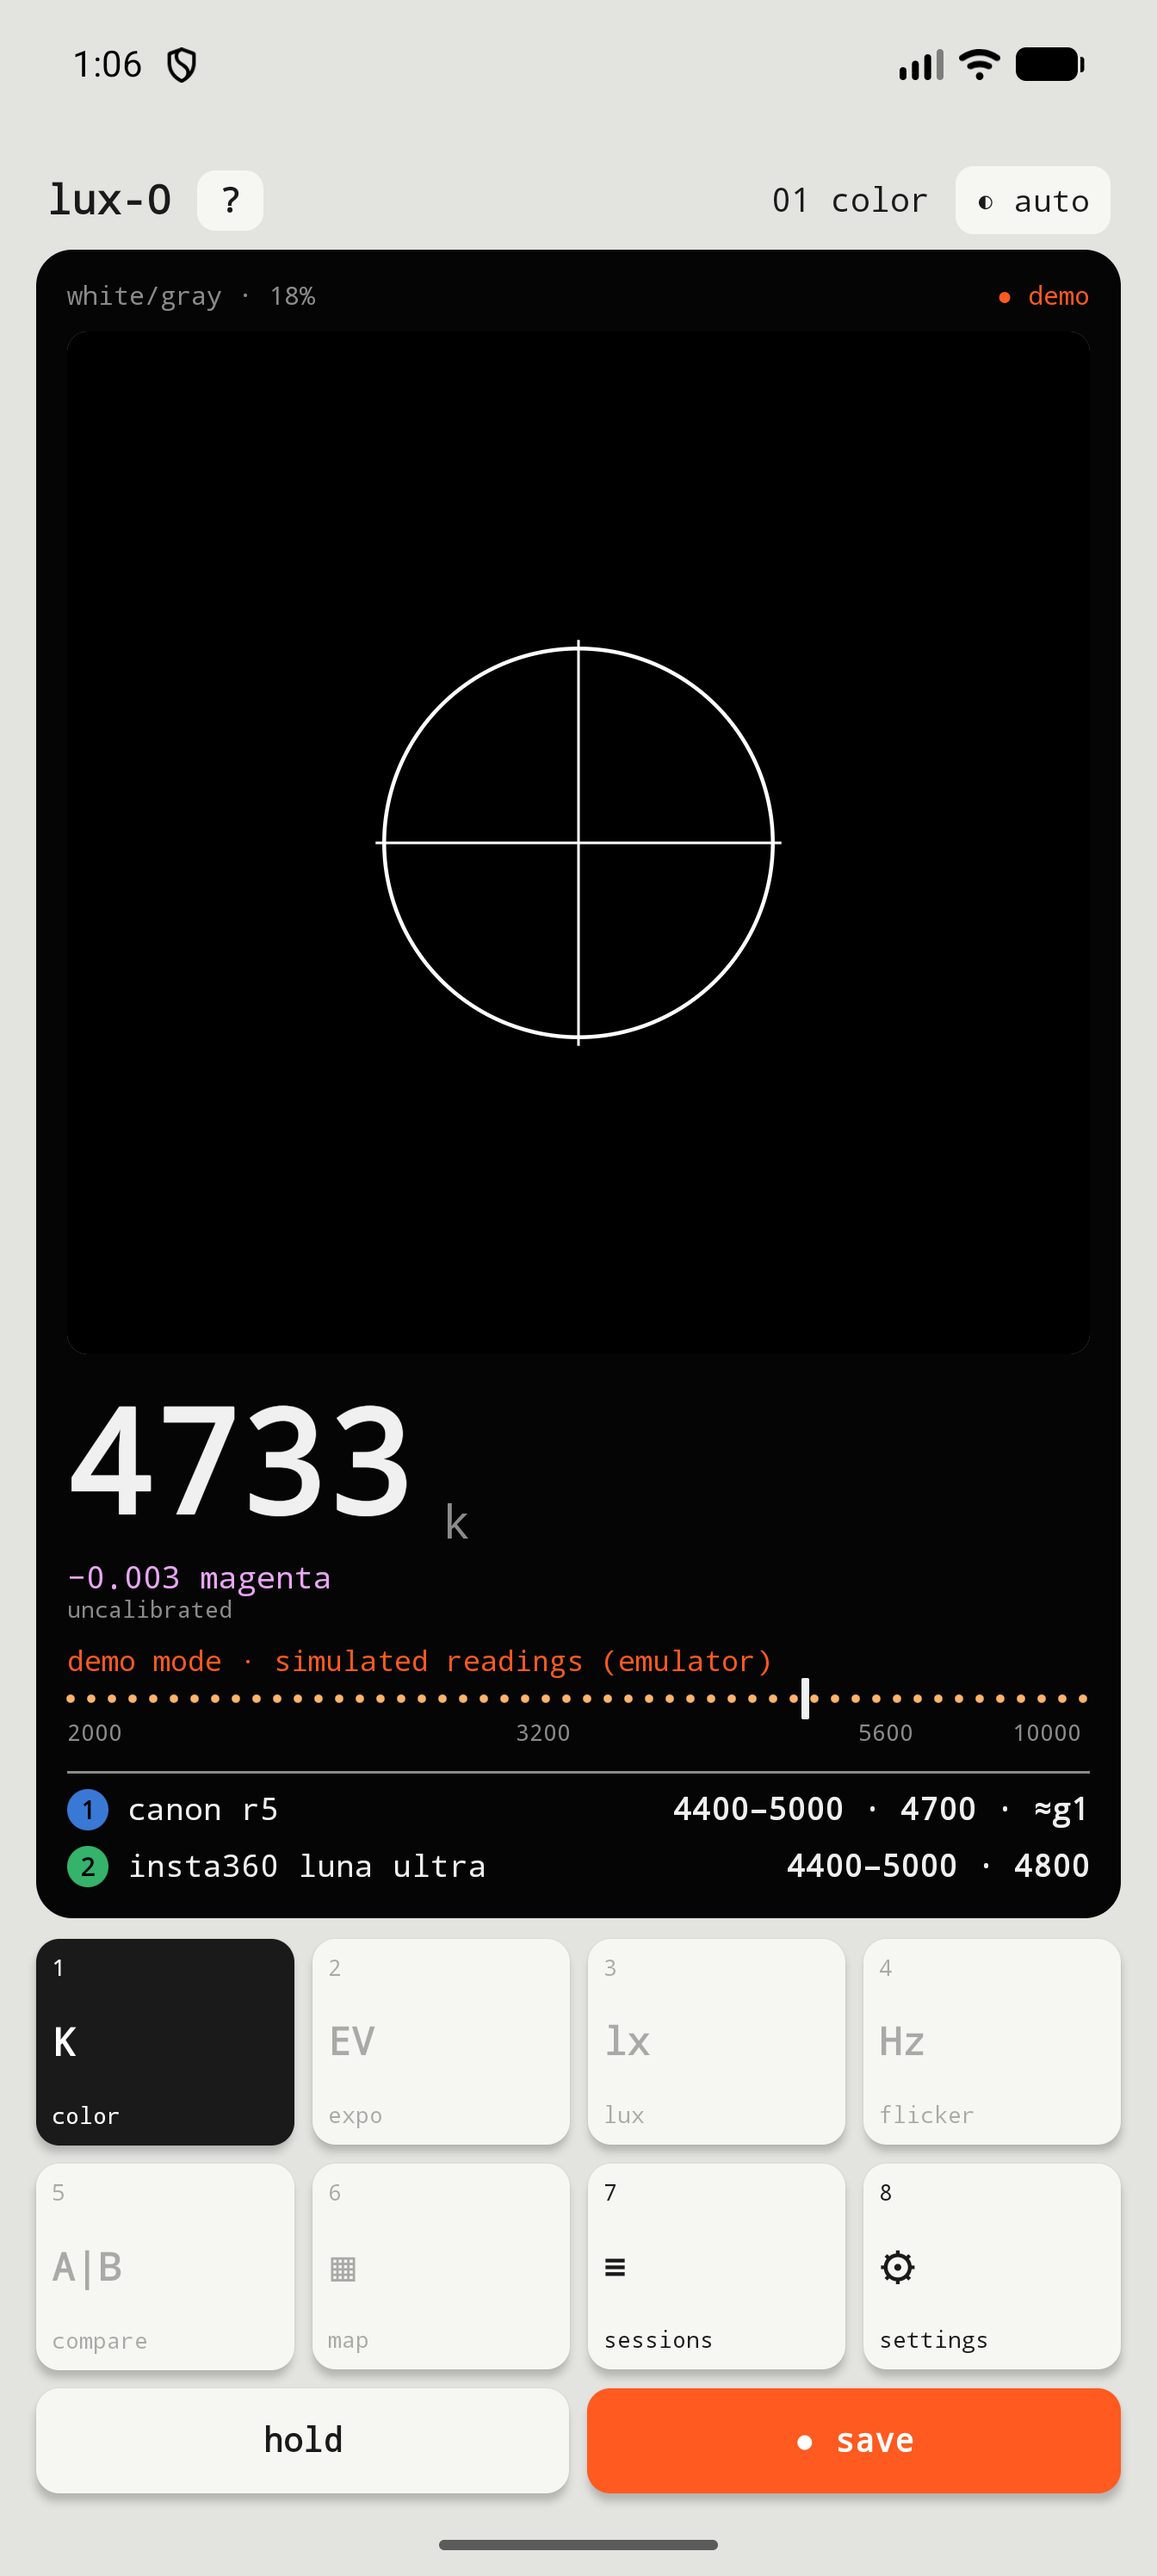
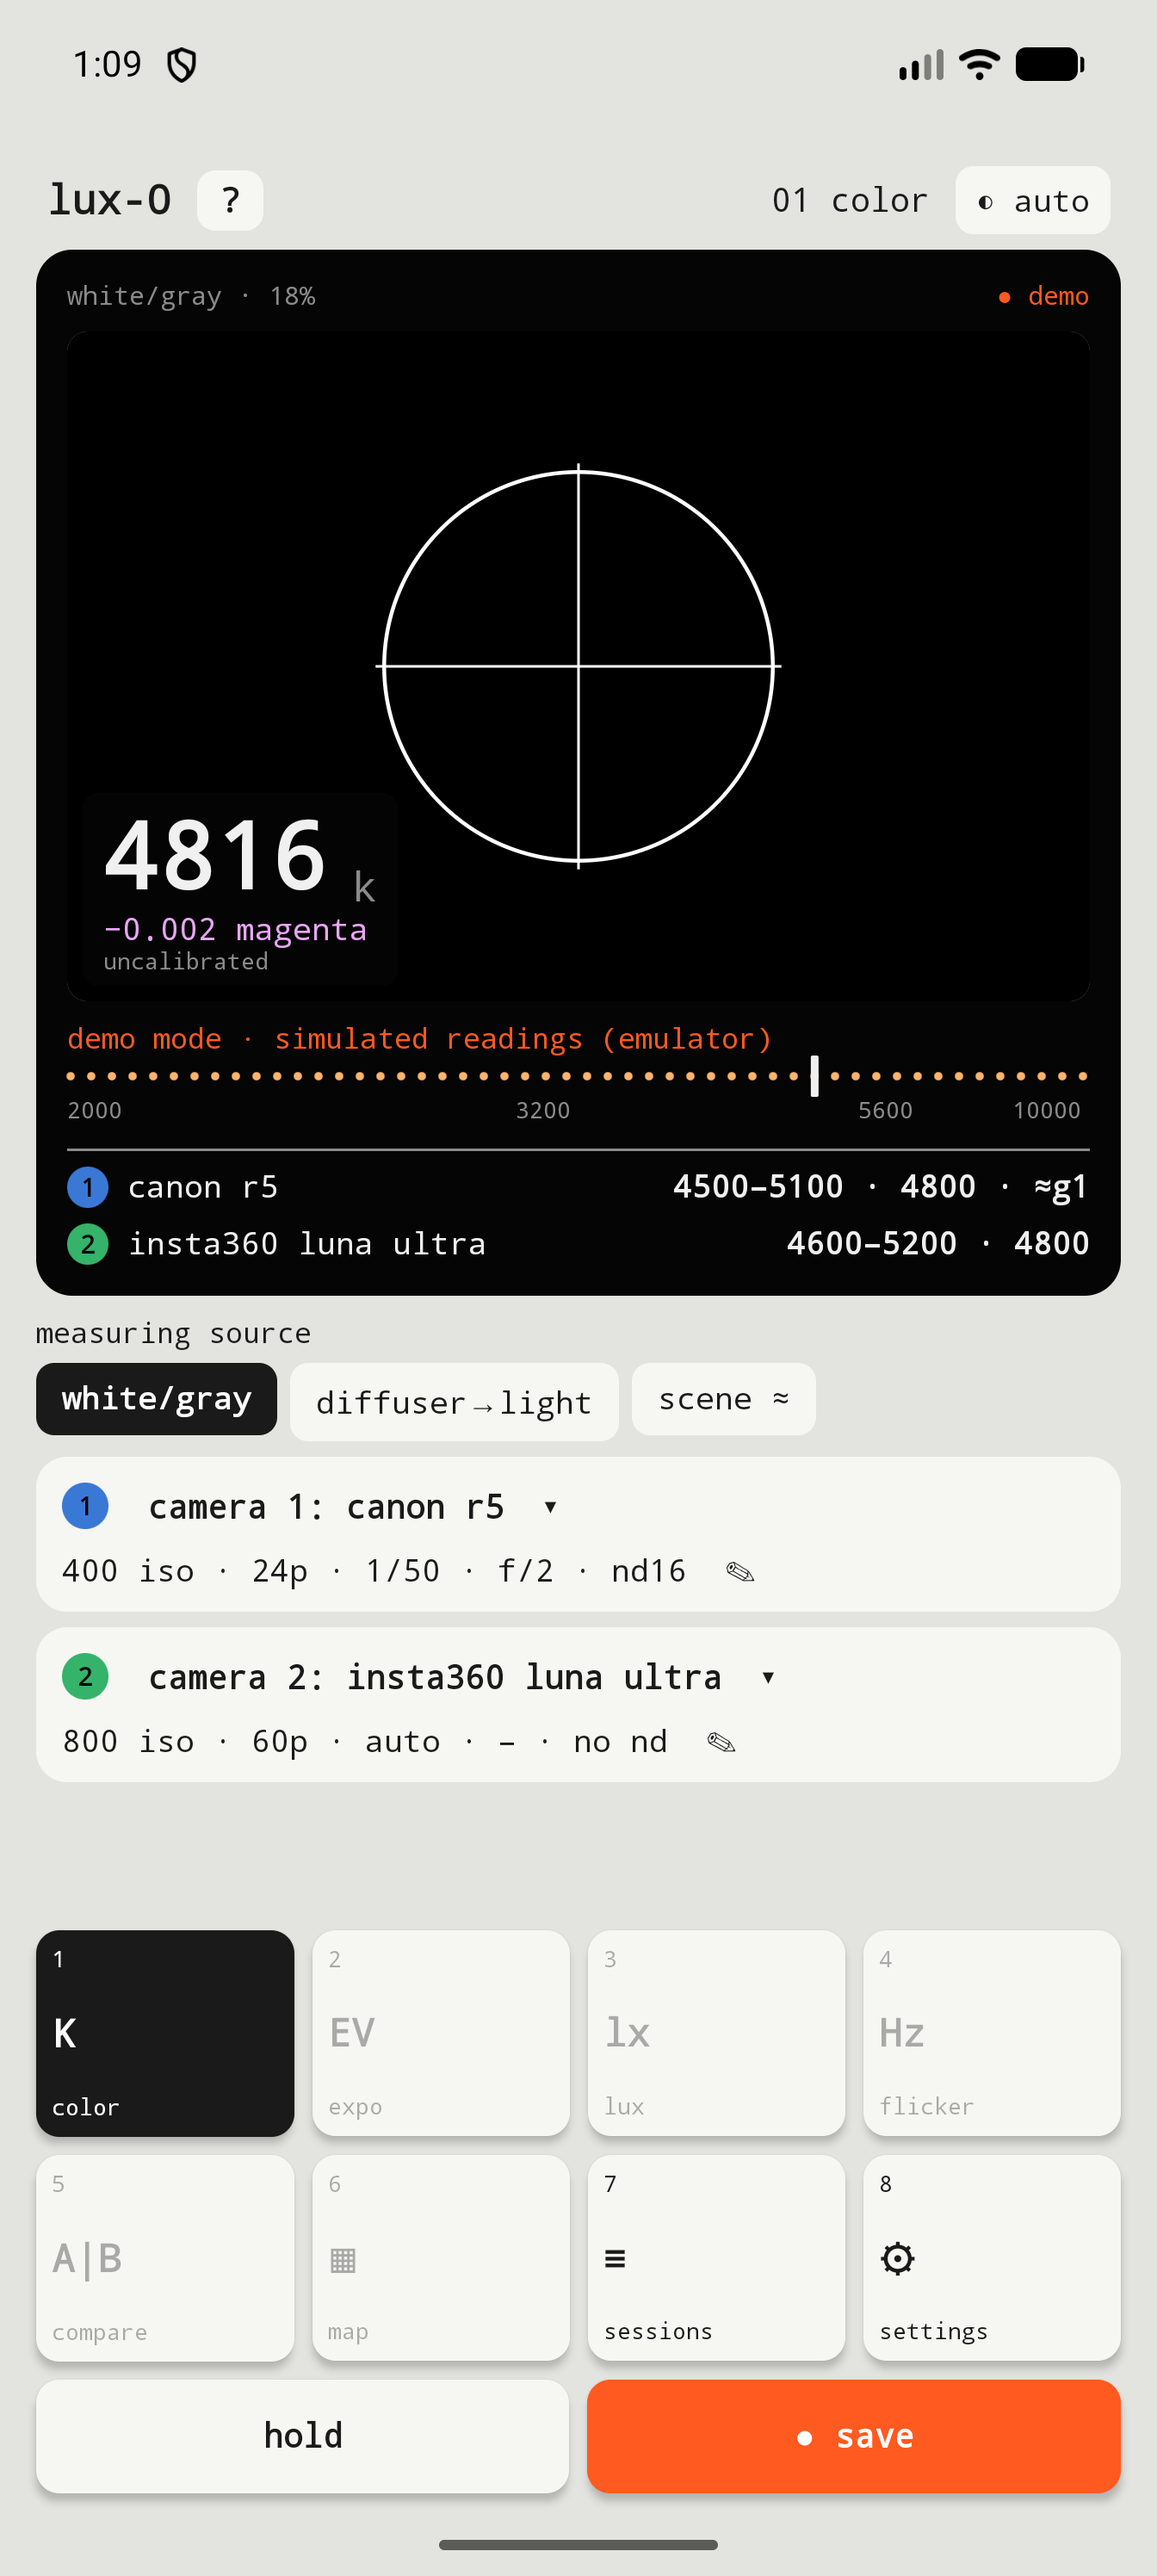
fix: visor ampliado ancho y bajo con el número encima; fuente y cámaras siempre visibles

diff --git a/app/src/main/java/cl/lux0/ui/MeterScreen.kt b/app/src/main/java/cl/lux0/ui/MeterScreen.kt
@@ -80,7 +80,16 @@ fun Header(mode: Int, theme: String, onTheme: () -> Unit, onHelp: () -> Unit = {
  * pausa por inactividad ni por calor.
  */
 @Composable
-fun Viewfinder(vm: MeterViewModel, size: androidx.compose.ui.unit.Dp, active: Boolean, retry: Int, onToggle: () -> Unit, onView: (TextureView?) -> Unit) {
+fun Viewfinder(
+    vm: MeterViewModel,
+    width: androidx.compose.ui.unit.Dp,
+    height: androidx.compose.ui.unit.Dp,
+    active: Boolean,
+    retry: Int,
+    onToggle: () -> Unit,
+    overlay: @Composable androidx.compose.foundation.layout.BoxScope.() -> Unit = {},
+    onView: (TextureView?) -> Unit,
+) {
     val p = LocalPalette.current
     val owner = LocalLifecycleOwner.current
     var texture by remember { mutableStateOf<SurfaceTexture?>(null) }
@@ -98,18 +107,18 @@ fun Viewfinder(vm: MeterViewModel, size: androidx.compose.ui.unit.Dp, active: Bo
     LaunchedEffect(run, texture, retry) {
         if (run) vm.startCamera(texture!!) else vm.stopCamera()
     }
-    Box(Modifier.size(size).clip(RoundedCornerShape(8.dp)).background(p.screenDim).clickable(onClick = onToggle)) {
+    Box(Modifier.size(width, height).clip(RoundedCornerShape(8.dp)).background(p.screenDim).clickable(onClick = onToggle)) {
         AndroidView(
             factory = { ctx ->
                 TextureView(ctx).apply {
                     val aspect = vm.previewAspect()
                     surfaceTextureListener = object : TextureView.SurfaceTextureListener {
                         override fun onSurfaceTextureAvailable(st: SurfaceTexture, w: Int, h: Int) {
-                            setTransform(Matrix().apply { setScale(1f, aspect, w / 2f, h / 2f) })
+                            setTransform(Matrix().apply { setScale(1f, w * aspect / h, w / 2f, h / 2f) })
                             texture = st
                         }
                         override fun onSurfaceTextureSizeChanged(st: SurfaceTexture, w: Int, h: Int) {
-                            setTransform(Matrix().apply { setScale(1f, aspect, w / 2f, h / 2f) })
+                            setTransform(Matrix().apply { setScale(1f, w * aspect / h, w / 2f, h / 2f) })
                         }
                         override fun onSurfaceTextureDestroyed(st: SurfaceTexture): Boolean {
                             texture = null; vm.stopCamera(); return true
@@ -131,6 +140,7 @@ fun Viewfinder(vm: MeterViewModel, size: androidx.compose.ui.unit.Dp, active: Bo
             drawLine(line, Offset(c.x, c.y - r - 10), Offset(c.x, c.y + r + 10), 1.dp.toPx())
             drawLine(line, Offset(c.x - r - 10, c.y), Offset(c.x + r + 10, c.y), 1.dp.toPx())
         }
+        overlay()
         if (!active) Box(Modifier.fillMaxSize().background(p.screen.copy(alpha = 0.7f)), contentAlignment = Alignment.Center) {
             Text("■", style = mono(22, p.screenText))
         }
@@ -230,19 +240,22 @@ fun BlackScreen(vm: MeterViewModel, st: UiState, onView: (TextureView?) -> Unit)
             Text(status, style = mono(10, p.accent))
         }
         Spacer(Modifier.height(8.dp))
-        // Un toque en el visor lo amplía al ancho de la pantalla negra (media pantalla) y otro lo achica.
+        // Un toque en el visor lo amplía: todo el ancho y ~¼ de la altura de pantalla, con el número encima,
+        // para que fuente y tarjetas de cámara sigan visibles. Otro toque lo achica.
         // El visor queda siempre en la misma posición del árbol para que la cámara no se reinicie.
         var big by androidx.compose.runtime.saveable.rememberSaveable { mutableStateOf(false) }
+        val screenH = androidx.compose.ui.platform.LocalConfiguration.current.screenHeightDp
         BoxWithConstraints(Modifier.fillMaxWidth()) {
-            val vf by androidx.compose.animation.core.animateDpAsState(if (big) maxWidth else 132.dp, label = "visor")
+            val vfW by androidx.compose.animation.core.animateDpAsState(if (big) maxWidth else 132.dp, label = "visor-ancho")
+            val vfH by androidx.compose.animation.core.animateDpAsState(if (big) (screenH * 0.26f).dp else 132.dp, label = "visor-alto")
             val reading: @Composable (Int) -> Unit = { size ->
                 Column {
                     Row(verticalAlignment = Alignment.Bottom) {
                         Text(r?.let { "${it.cct.roundToInt()}" } ?: "----", style = mono(size, p.screenText, true))
-                        if (big) Text(" k", style = mono(18, p.screenDim))
+                        if (big) Text(" k", style = mono(16, p.screenDim))
                     }
                     if (!big) Text("k" + if (st.source == 2) tr("  ≈ estimado", "  ≈ estimated") else "", style = mono(13, p.screenDim))
-                    Spacer(Modifier.height(4.dp))
+                    if (!big) Spacer(Modifier.height(4.dp))
                     Text(r?.let { tintText(it.duv) } ?: "", style = mono(12, if (r != null && r.duv > 0) p.green else p.magenta))
                     Text(
                         (if (st.calOffset == 0.0) tr("sin calibrar", "uncalibrated") else tr("calibrado", "calibrated")) +
@@ -251,12 +264,14 @@ fun BlackScreen(vm: MeterViewModel, st: UiState, onView: (TextureView?) -> Unit)
                     )
                 }
             }
-            Column {
-                Row(verticalAlignment = Alignment.CenterVertically) {
-                    Viewfinder(vm, vf, !st.idle && !st.hot && !st.hold, st.retry, { big = !big }, onView)
-                    if (!big) { Spacer(Modifier.width(12.dp)); reading(44) }
-                }
-                if (big) Box(Modifier.padding(top = 10.dp)) { reading(56) }
+            Row(verticalAlignment = Alignment.CenterVertically) {
+                Viewfinder(vm, vfW, vfH, !st.idle && !st.hot && !st.hold, st.retry, { big = !big }, overlay = {
+                    if (big) Box(
+                        Modifier.align(Alignment.BottomStart).padding(6.dp).clip(RoundedCornerShape(6.dp))
+                            .background(p.screen.copy(alpha = 0.7f)).padding(horizontal = 8.dp, vertical = 4.dp),
+                    ) { reading(36) }
+                }, onView = onView)
+                if (!big) { Spacer(Modifier.width(12.dp)); reading(44) }
             }
         }
         val alert = when {
@@ -288,7 +303,7 @@ fun BlackScreen(vm: MeterViewModel, st: UiState, onView: (TextureView?) -> Unit)
 @Composable
 fun SourceRow(st: UiState, onSelect: (Int) -> Unit) {
     val p = LocalPalette.current
-    Column(Modifier.fillMaxWidth().padding(top = 12.dp, bottom = 10.dp)) {
+    Column(Modifier.fillMaxWidth().padding(top = 8.dp, bottom = 6.dp)) {
         Text(tr("fuente de medición", "measuring source"), style = mono(11, p.text))
         Seg(SOURCES, st.source, onSelect, Modifier.padding(top = 5.dp))
     }

diff --git a/app/src/main/java/cl/lux0/ui/Lists.kt b/app/src/main/java/cl/lux0/ui/Lists.kt
@@ -299,11 +299,11 @@ fun CameraCards(vm: MeterViewModel, version: Int) {
     val p = LocalPalette.current
     var custom by remember { mutableStateOf(false) }
     var editing by remember { mutableStateOf(0) }
-    Column(verticalArrangement = Arrangement.spacedBy(8.dp)) {
+    Column(verticalArrangement = Arrangement.spacedBy(6.dp)) {
         listOf(1, 2).forEach { slot ->
             val cam = vm.cam(slot)
             var open by remember { mutableStateOf(false) }
-            Column(Modifier.fillMaxWidth().clip(RoundedCornerShape(12.dp)).background(p.key).padding(10.dp)) {
+            Column(Modifier.fillMaxWidth().clip(RoundedCornerShape(12.dp)).background(p.key).padding(horizontal = 10.dp, vertical = 6.dp)) {
                 Row(verticalAlignment = Alignment.CenterVertically) {
                     Box(Modifier.size(18.dp).clip(RoundedCornerShape(9.dp)).background(p.knobs[slot - 1]),
                         contentAlignment = Alignment.Center) {
@@ -331,7 +331,7 @@ fun CameraCards(vm: MeterViewModel, version: Int) {
                 Text(
                     "${cap.iso} iso · ${CaptureOptions.fpsLabel(cap.fps)}p · ${cap.shutter} · ${CaptureOptions.fLabel(cap.fStop)} · ${cap.nd.ifBlank { tr("sin nd", "no nd") }}${if (cap.ev != 0.0) " · ev " + CaptureOptions.evLabel(cap.ev) else ""}  ✎",
                     style = mono(12, p.keyText),
-                    modifier = Modifier.fillMaxWidth().padding(top = 6.dp).clickable { editing = slot }.padding(vertical = 4.dp),
+                    modifier = Modifier.fillMaxWidth().padding(top = 2.dp).clickable { editing = slot }.padding(vertical = 2.dp),
                 )
             }
         }
